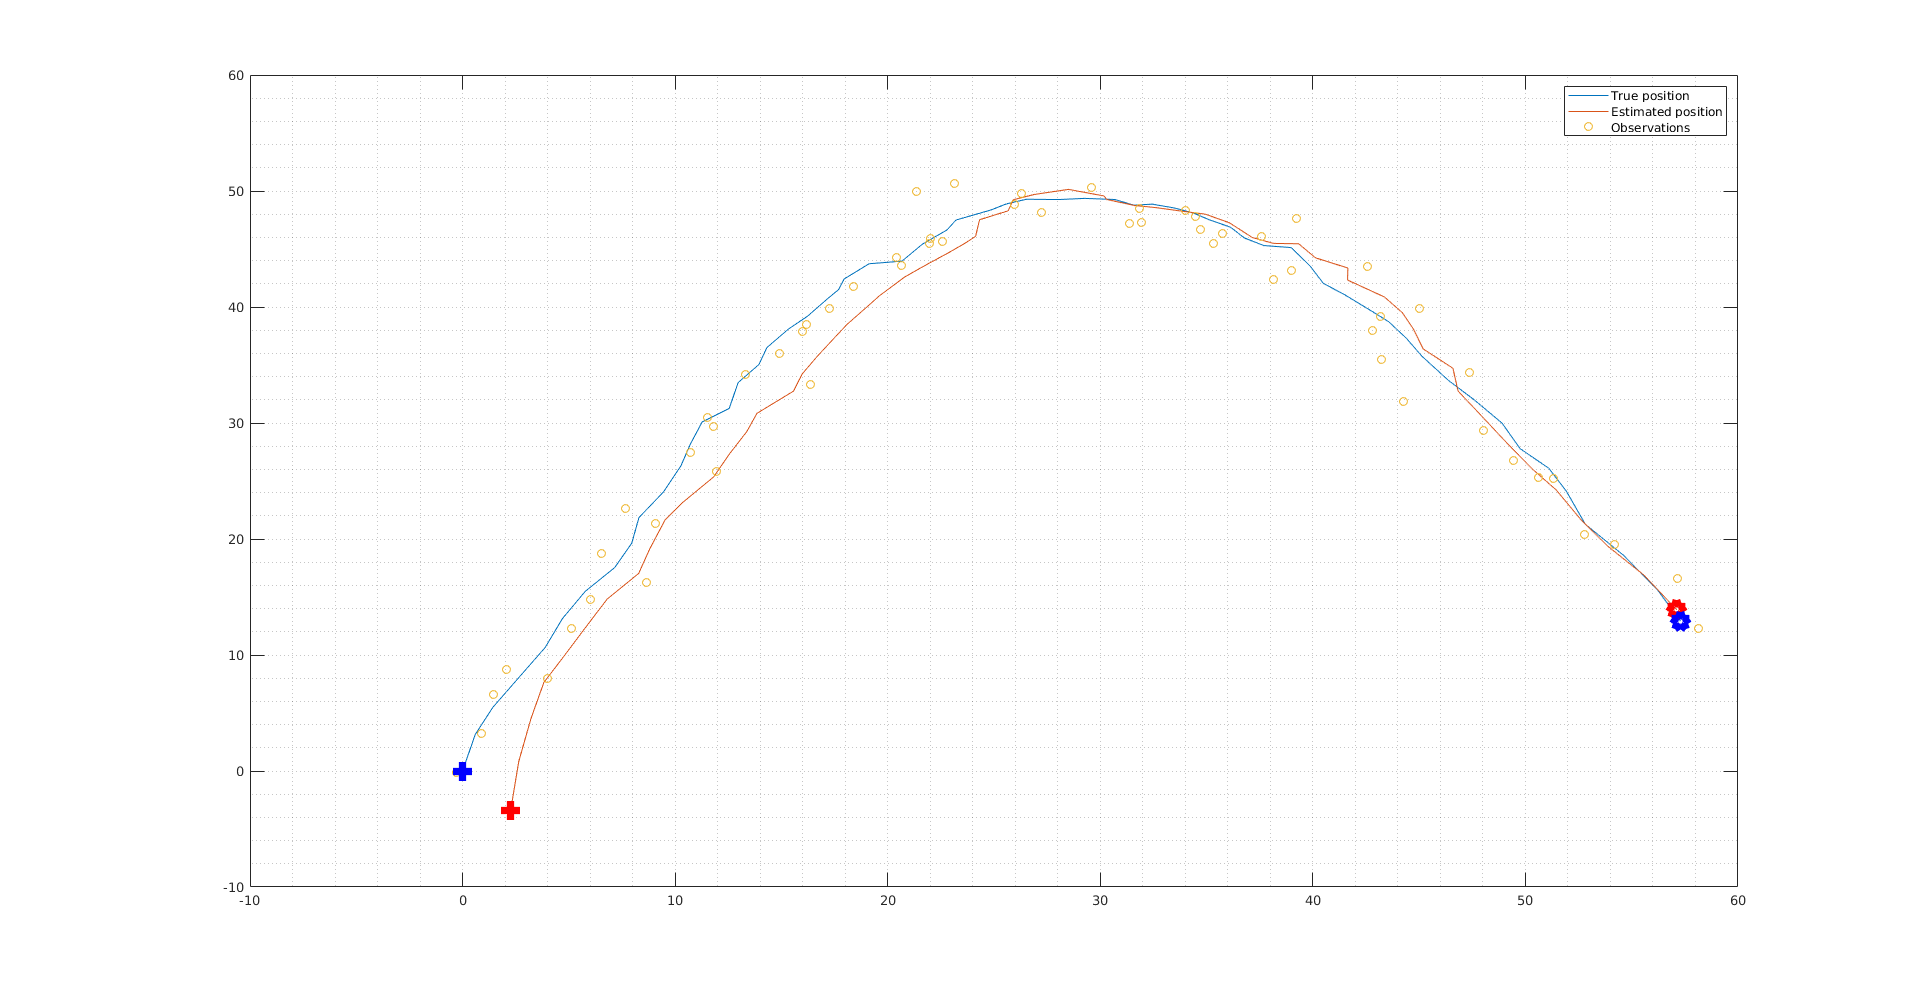
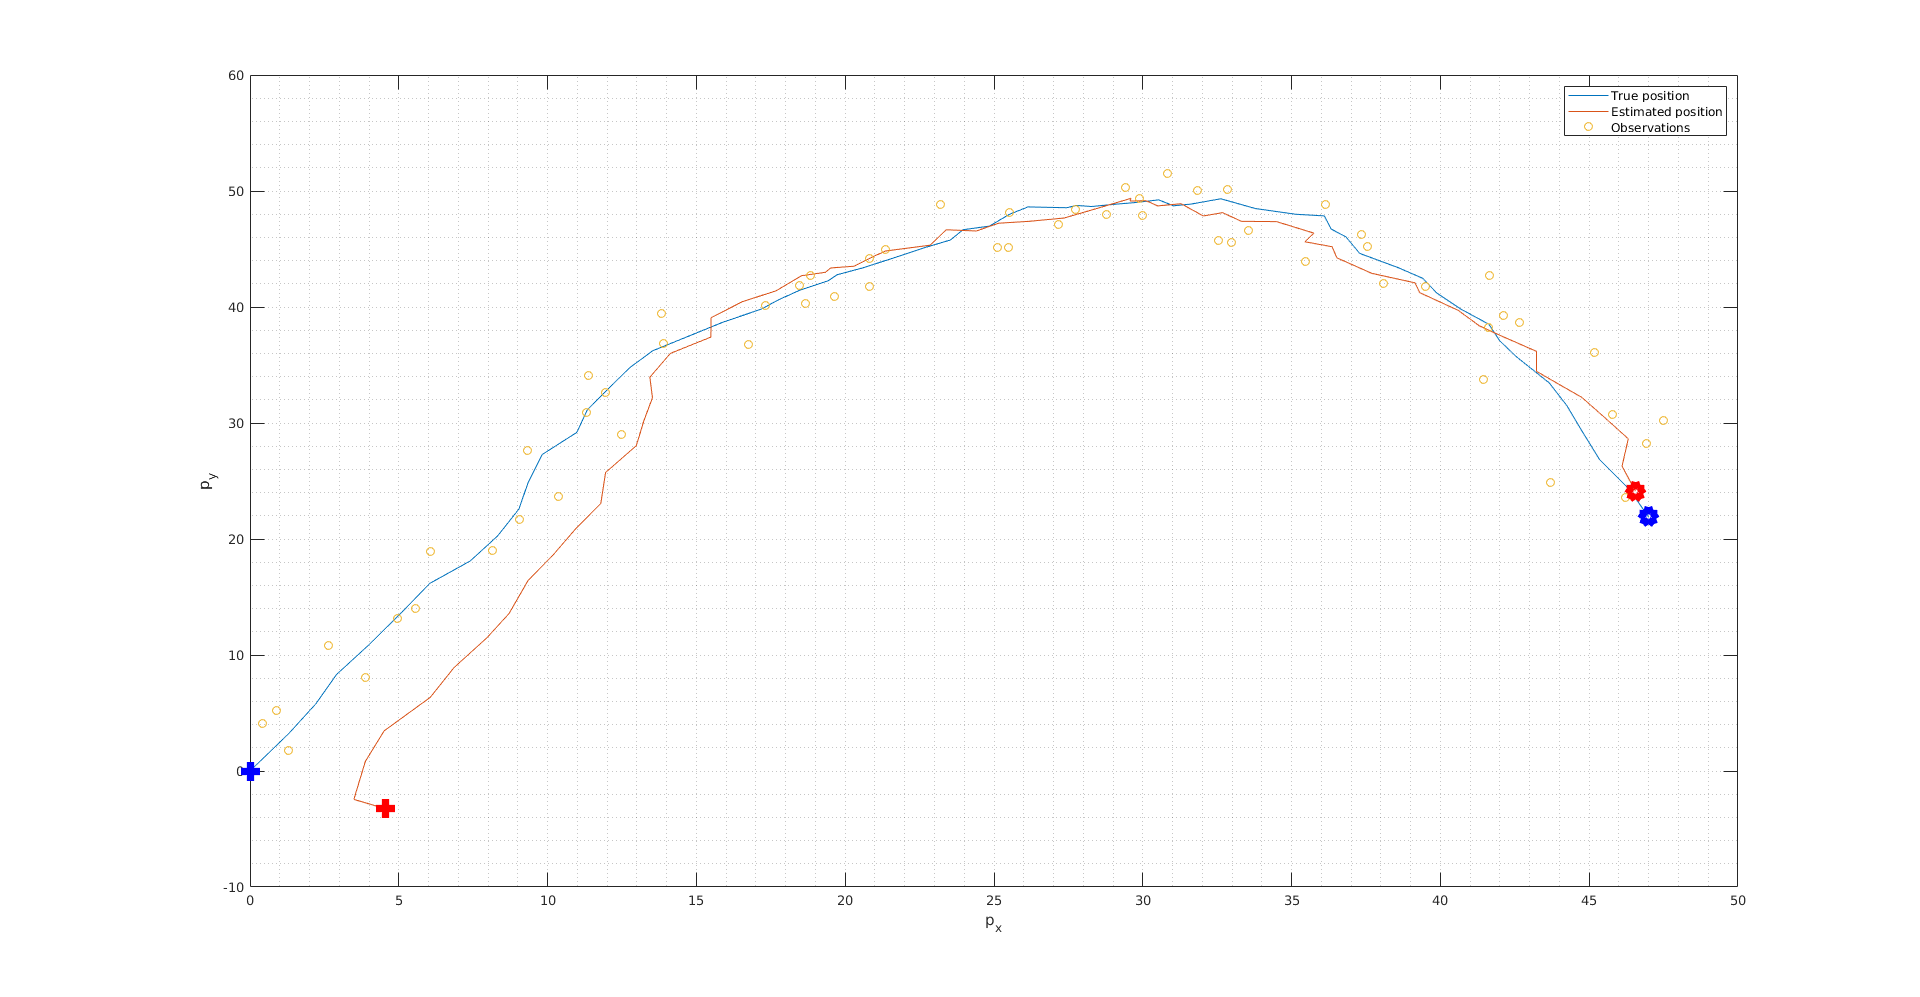
Minor fixes

diff --git a/mainKalman.m b/mainKalman.m
@@ -8,58 +8,52 @@ sigmaQKF = 0.1; %Process noise tuning for the KF
 sigmaRKF = 2; %Measurement noise tuning for the KF
 sigmaQsys = 0.1; %Real system perturbations
 sigmaRsense= 2; %Real sensor noise
+sigmaXInit = 5; %Spread factor of the init estimate around the real state
+sigmaPInit = 5; %Tuning parameter of the error estimate covariance
+
 T = 0.1; %Sampling time
 Tsim = 6; %Simulation time
 g = 9.81; %Gravity
 
-model = 'CA'; %CV for constant velocity, CA for constant acceleration
+modelName = 'CA'; %CV for constant velocity, CA for constant acceleration
 
 %Model parameters
-[A,C,Q,R,n,m] = modelGen(model,T,sigmaQKF,sigmaRKF); 
+[A,C,QKF,RKF,Qsys,Rsense,n,m] = modelGen(modelName,T,sigmaQKF,sigmaRKF,sigmaQsys,sigmaRsense); 
 
 
 
 %Initial state
-if strcmpi(model,'CV')
-    %Sensor noise covariance
-    Rsense = sigmaRsense*eye(m);
-
-    %Perturbations on the real system
-    Qsys = sigmaQsys*eye(n);
-    
+if strcmpi(modelName,'CV')
     x0 = [0;0;10;10]; %Constant velocity
-elseif strcmpi(model,'CA')
-    %Sensor noise covariance
-    Rsense = sigmaRsense*eye(m);
-
-    %Perturbations on the real system
-    Qsys = sigmaQsys*[1 0 0 0 0 0;...
-                      0 1 0 0 0 0;...
-                      0 0 1 0 0 0;...
-                      0 0 0 1 0 0;...
-                      0 0 0 0 0 0;...
-                      0 0 0 0 0 0];
-    x0 = [0;0;9;30;0;-g];
+elseif strcmpi(modelName,'CA')
+    x0 = [0;0;9;30;0;-g]; %Constant acceleration
 end
 
 %Data generation
 x_true = trajectoryGen(x0,A,Qsys,T,Tsim);
-[z_true, z_vector] = measurementGen(x_true,C,Rsense);
+[z_true, z_vector] = measurementGen(x_true,C,Rsense); 
+
 
 %Filtering
-x_est_vec = zeros(size(x_true));
+x_est_vec = zeros(size(x_true,1),size(x_true,2)+1);
 z_est_vec = zeros(size(z_vector));
 
-%Filter init
-x_pred = x0 + 3*randn(n,1);
-P_pred = rand(n,n);
-P_pred = 3*P_pred*P_pred';
+%Note the x_est vector contains one more element (the initial guess) in
+%order to show how a wrong init of the filter can be handled
 
-numSteps = Tsim/T;
+%Filter init
+x_pred = x0 + sigmaXInit*randn(n,1);
+x_est_vec(:,1) = x_pred;
+
+P_pred = rand(n,n);
+P_pred = sigmaPInit*(P_pred*P_pred');
+
+
+numSteps = size(z_vector,2); %The number of filter iterations is equal to the number of observations we do
 
 for k=1:numSteps
-    [x_pred,P_pred,x_est,P_est,z_pred,z_est]=KF(x_pred,P_pred,z_vector(:,k),A,C,Q,R);
-    x_est_vec(:,k) = x_est;
+    [x_est,P_est,x_pred,P_pred,z_est,z_pred]=KF(x_pred,P_pred,z_vector(:,k),A,C,QKF,RKF);
+    x_est_vec(:,k+1) = x_est;
     z_est_vec(:,k) = z_est;
 end
 
@@ -73,22 +67,28 @@ plot(x_true(1,1),x_true(2,1),'+','MarkerSize',14,'LineWidth',14,'Color','b'); ho
 plot(x_est_vec(1,end),x_est_vec(2,end),'p','MarkerSize',14,'LineWidth',14,'Color','r'); hold on
 plot(x_true(1,end),x_true(2,end),'p','MarkerSize',14,'LineWidth',14,'Color','b'); hold on
 grid minor
+xlabel('p_x');
+ylabel('p_y');
 
 legend('True position','Estimated position','Observations');
-
-figure(2)
-subplot(1,2,1)
-plot(T:T:Tsim,z_true(1,:)); hold on
-plot(T:T:Tsim,z_vector(1,:)); hold on
-plot(T:T:Tsim,z_est_vec(1,:)); hold on
-grid minor
-legend('z1_{true}','z1_{noise}','z1_{est}');
-subplot(1,2,2)
-plot(T:T:Tsim,z_true(2,:)); hold on
-plot(T:T:Tsim,z_vector(2,:)); hold on
-plot(T:T:Tsim,z_est_vec(2,:)); hold on
-grid minor
-legend('z2_{true}','z2_{noise}','z2_{est}');
+% 
+% figure(2)
+% subplot(1,2,1)
+% plot(T:T:Tsim,z_true(1,:)); hold on
+% plot(T:T:Tsim,z_vector(1,:)); hold on
+% plot(T:T:Tsim,z_est_vec(1,:)); hold on
+% grid minor
+% legend('z1_{true}','z1_{noise}','z1_{est}');
+% xlabel('t');
+% ylabel('p_x');
+% subplot(1,2,2)
+% plot(T:T:Tsim,z_true(2,:)); hold on
+% plot(T:T:Tsim,z_vector(2,:)); hold on
+% plot(T:T:Tsim,z_est_vec(2,:)); hold on
+% grid minor
+% legend('z2_{true}','z2_{noise}','z2_{est}');
+% xlabel('t');
+% ylabel('p_y');
 
 
 

diff --git a/modelGen.m b/modelGen.m
@@ -1,4 +1,4 @@
-function [A,C,Q,R,n,m] = modelGen(modelName,T,sigmaQ,sigmaR)
+function [A,C,Q,R,Qsys,Rsense,n,m] = modelGen(modelName,T,sigmaQ,sigmaR,sigmaQsys,sigmaRsense)
 
 if strcmpi(modelName,'CV') %Constant velocity
 
@@ -20,6 +20,12 @@ if strcmpi(modelName,'CV') %Constant velocity
             0 0 0 0.1]; %Process noise covariance (filter)
         
     R = sigmaR*eye(m); %Measurement noise covariance (filter)
+    
+    %Sensor noise covariance
+    Rsense = sigmaRsense*eye(m);
+
+    %Perturbations on the real system
+    Qsys = sigmaQsys*eye(n);
     
 elseif strcmpi(modelName,'CA') %Constant acceleration
     
@@ -45,6 +51,17 @@ elseif strcmpi(modelName,'CA') %Constant acceleration
             0 0 0 0 0 0];%Process noise covariance (filter)
         
     R = sigmaR*eye(m); %Measurement noise covariance (filter)
+    
+    %Sensor noise covariance
+    Rsense = sigmaRsense*eye(m);
+
+    %Perturbations on the real system
+    Qsys = sigmaQsys*[1 0 0 0 0 0;...
+                      0 1 0 0 0 0;...
+                      0 0 1 0 0 0;...
+                      0 0 0 1 0 0;...
+                      0 0 0 0 0 0;...
+                      0 0 0 0 0 0];
 end
 
 

diff --git a/KF.m b/KF.m
@@ -1,4 +1,4 @@
-function [x_pred,P_pred,x_est,P_est,z_pred,z_est] = KF(x_pred,P_pred,z,A,C,Q,R)
+function [x_est,P_est,x_pred,P_pred,z_est,z_pred] = KF(x_pred,P_pred,z,A,C,Q,R)
 
 %The state vector is [x; v_x; y; v_y], that is we are estimating 2D
 %cartesian position and velocity of a moving target.
@@ -13,10 +13,14 @@ x_est = x_pred + K_k*(z - z_pred);
 P_est = P_pred - K_k*C*P_pred;
 
 z_est = measurementModel(x_est,C);
+
 %Prediction
 
 x_pred = motionModel(x_est,A);
 P_pred = A*P_est*A' + Q;
+
+
+
 
 
 end
